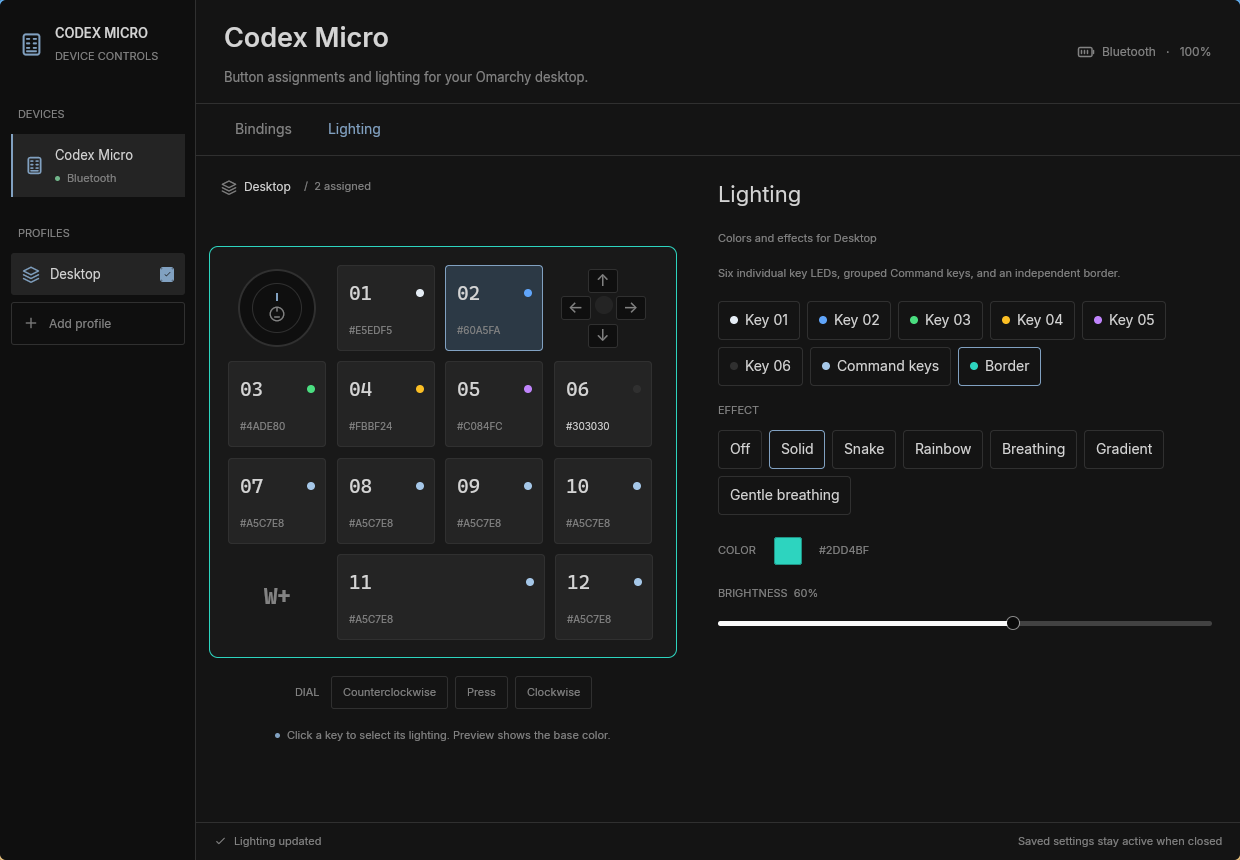
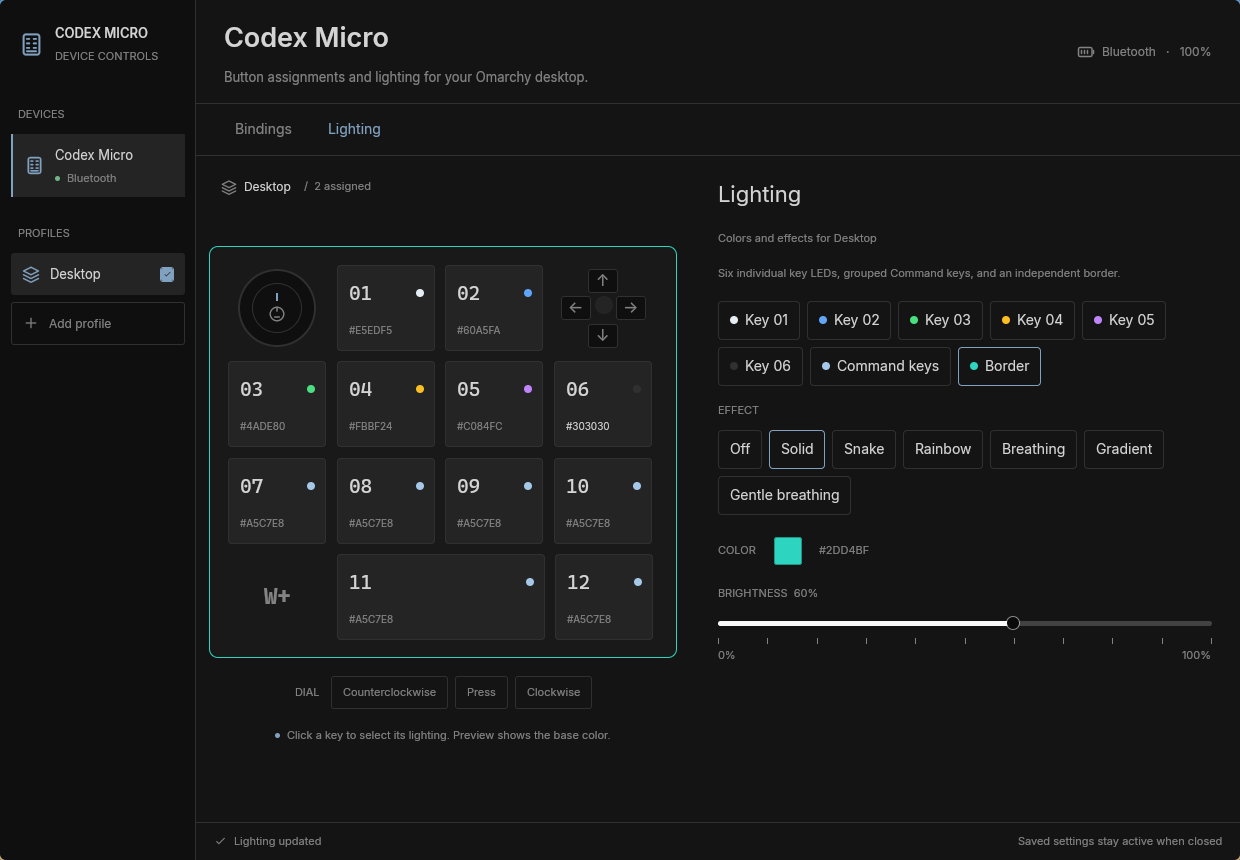
feat(lighting): snap sliders to ten-percent ticks

Changed region(s): [[0.3371, 0.3023, 0.4597, 0.4233], [0.9806, 0.9977, 1.0, 1.0], [0.95, 0.7558, 0.9806, 0.786]]

diff --git a/src/ui/lighting.rs b/src/ui/lighting.rs
@@ -28,14 +28,14 @@ impl LightingEditor {
             SliderState::new()
                 .min(0.)
                 .max(100.)
-                .step(1.)
+                .step(10.)
                 .default_value(f32::from(light.brightness))
         });
         let speed = cx.new(|_| {
             SliderState::new()
                 .min(0.)
                 .max(100.)
-                .step(1.)
+                .step(10.)
                 .default_value(f32::from(light.speed))
         });
         let subscriptions = vec![
@@ -47,22 +47,37 @@ impl LightingEditor {
                     this.apply_lighting(cx);
                 }
             }),
-            cx.subscribe(&brightness, |this, _, event: &SliderEvent, cx| {
-                let Some(target) = this.lighting.target else {
-                    return;
-                };
-                let SliderEvent::Change(value) = event;
-                this.lighting.settings.light_mut(target).brightness = value.start().round() as u8;
-                cx.notify();
-            }),
-            cx.subscribe(&speed, |this, _, event: &SliderEvent, cx| {
-                let Some(target) = this.lighting.target else {
-                    return;
-                };
-                let SliderEvent::Change(value) = event;
-                this.lighting.settings.light_mut(target).speed = value.start().round() as u8;
-                cx.notify();
-            }),
+            cx.subscribe_in(
+                &brightness,
+                window,
+                |this, slider, event: &SliderEvent, window, cx| {
+                    let Some(target) = this.lighting.target else {
+                        return;
+                    };
+                    let SliderEvent::Change(value) = event;
+                    this.lighting.settings.light_mut(target).brightness =
+                        snap_percentage(value.start());
+                    slider.update(cx, |state, cx| {
+                        state.set_value(f32::from(snap_percentage(value.start())), window, cx)
+                    });
+                    cx.notify();
+                },
+            ),
+            cx.subscribe_in(
+                &speed,
+                window,
+                |this, slider, event: &SliderEvent, window, cx| {
+                    let Some(target) = this.lighting.target else {
+                        return;
+                    };
+                    let SliderEvent::Change(value) = event;
+                    this.lighting.settings.light_mut(target).speed = snap_percentage(value.start());
+                    slider.update(cx, |state, cx| {
+                        state.set_value(f32::from(snap_percentage(value.start())), window, cx)
+                    });
+                    cx.notify();
+                },
+            ),
         ];
         (
             Self {
@@ -155,6 +170,25 @@ impl CodexMicro {
         if self.lighting.settings != self.profiles.active().lighting {
             self.apply_lighting(cx);
         }
+    }
+    fn lighting_slider(&self, state: &Entity<SliderState>) -> Div {
+        let mut ticks = div().flex().justify_between().w_full();
+        for _ in 0..=10 {
+            ticks = ticks.child(div().w(px(1.)).h(px(6.)).bg(rgb(self.palette.muted)));
+        }
+        div()
+            .flex()
+            .flex_col()
+            .gap_1()
+            .child(Slider::new(state))
+            .child(ticks)
+            .child(
+                div()
+                    .flex()
+                    .justify_between()
+                    .child(self.label("0%"))
+                    .child(self.label("100%")),
+            )
     }
     pub(super) fn lighting_panel(&self, cx: &mut Context<Self>) -> Stateful<Div> {
         let p = self.palette;
@@ -284,7 +318,7 @@ impl CodexMicro {
                         .flex_col()
                         .gap_3()
                         .child(self.label(format!("BRIGHTNESS  {}%", light.brightness)))
-                        .child(Slider::new(&self.lighting.brightness)),
+                        .child(self.lighting_slider(&self.lighting.brightness)),
                 )
             })
             .when(light.effect.animated(), |panel| {
@@ -294,10 +328,14 @@ impl CodexMicro {
                         .flex_col()
                         .gap_3()
                         .child(self.label(format!("SPEED  {}%", light.speed)))
-                        .child(Slider::new(&self.lighting.speed)),
+                        .child(self.lighting_slider(&self.lighting.speed)),
                 )
             })
     }
+}
+
+fn snap_percentage(value: f32) -> u8 {
+    ((value.clamp(0., 100.) / 10.).round() * 10.) as u8
 }
 
 fn picker_rgb(color: gpui::Hsla) -> u32 {

diff --git a/examples/verify_native/main.rs b/examples/verify_native/main.rs
@@ -832,11 +832,24 @@ fn check_lighting(app: &mut NativeApp) -> Result<()> {
 fn check_slider_release(app: &NativeApp, speed: bool, field: &str) -> Result<()> {
     let original = fs::read_to_string(&app.config)?;
     let start = app.inspect()?.lighting["ambient"][field].clone();
-    for value in [65, 70, 80, 90] {
+    for (value, expected) in [
+        (0, 0),
+        (4, 0),
+        (5, 10),
+        (64, 60),
+        (65, 70),
+        (96, 100),
+        (100, 100),
+        (89, 90),
+    ] {
         app.ui(json!({"action":"lighting_slider","speed":speed,"value":value}))?;
         ensure!(
             fs::read_to_string(&app.config)? == original,
             "Slider saved before release"
+        );
+        ensure!(
+            app.inspect()?.lighting["ambient"][field] == expected,
+            "Slider did not snap {value} to {expected}"
         );
     }
     ensure!(

diff --git a/src/lighting.rs b/src/lighting.rs
@@ -64,7 +64,7 @@ impl Default for Light {
         Self {
             color: 0x81a1c1,
             effect: Effect::Solid,
-            brightness: 35,
+            brightness: 40,
             speed: 40,
         }
     }

diff --git a/docs/lighting.md b/docs/lighting.md
@@ -2,7 +2,8 @@
 
 Every profile has lighting enabled. The editor saves colors and effects immediately.
 Brightness and speed preview locally during dragging and save on release, so the
-service sends only the final slider value to the device. The service checks for
+service sends only the final slider value to the device. Both sliders snap to
+10% steps, including 0% and 100%. The service checks for
 configuration updates every 50 milliseconds.
 Omitted `lighting` tables load the default settings. Configuration validation rejects
 colors above `0xFFFFFF` and brightness or speed above 100 before replacing the
@@ -11,7 +12,7 @@ saved file. The six-element `agents` array fixes the number of individual LEDs.
 ```toml
 [profiles.lighting.keys]
 color = 16744192 # #FF8000
-brightness = 35
+brightness = 40
 speed = 40
 effect = "solid"
 
@@ -23,7 +24,7 @@ effect = "snake"
 ```
 
 The six Agent entries use `[[profiles.lighting.agents]]`. Omit the array to
-use six default lights. Defaults are solid `#81A1C1`, 35% brightness and 40%
+use six default lights. Defaults are solid `#81A1C1`, 40% brightness and 40%
 speed. Effect names in TOML are `off`, `solid`, `snake`, `rainbow`, `breath`,
 `gradient`, and `shallow_breath`.
 

diff --git a/README.md b/README.md
@@ -76,13 +76,14 @@ Open **Lighting** and select **Key 01** through **Key 06**, **Command keys**,
 or **Border**. The color picker accepts a hex color such as `#FF6600`.
 Choose an effect and adjust brightness or speed. Colors and effects apply
 immediately. Sliders update the preview while dragging and save when you release
-the handle. Brightness is hidden for Off, and speed appears only for animated
+the handle. Both sliders snap to 10% steps, with ticks from 0% to 100%.
+Brightness is hidden for Off, and speed appears only for animated
 effects. Controls appear after selecting a key or lighting zone. The device
 drawing shows each target's base color.
 
 Each profile has lighting enabled by default and keeps its own colors and
 effects. Existing profiles without lighting settings use solid `#81A1C1` at
-35% brightness. Choose **Off** for a target to turn its LEDs off. Lighting edits
+40% brightness. Choose **Off** for a target to turn its LEDs off. Lighting edits
 preserve unsaved binding edits.
 
 The service applies saved lighting on the Codex device layer, layer index 1,
